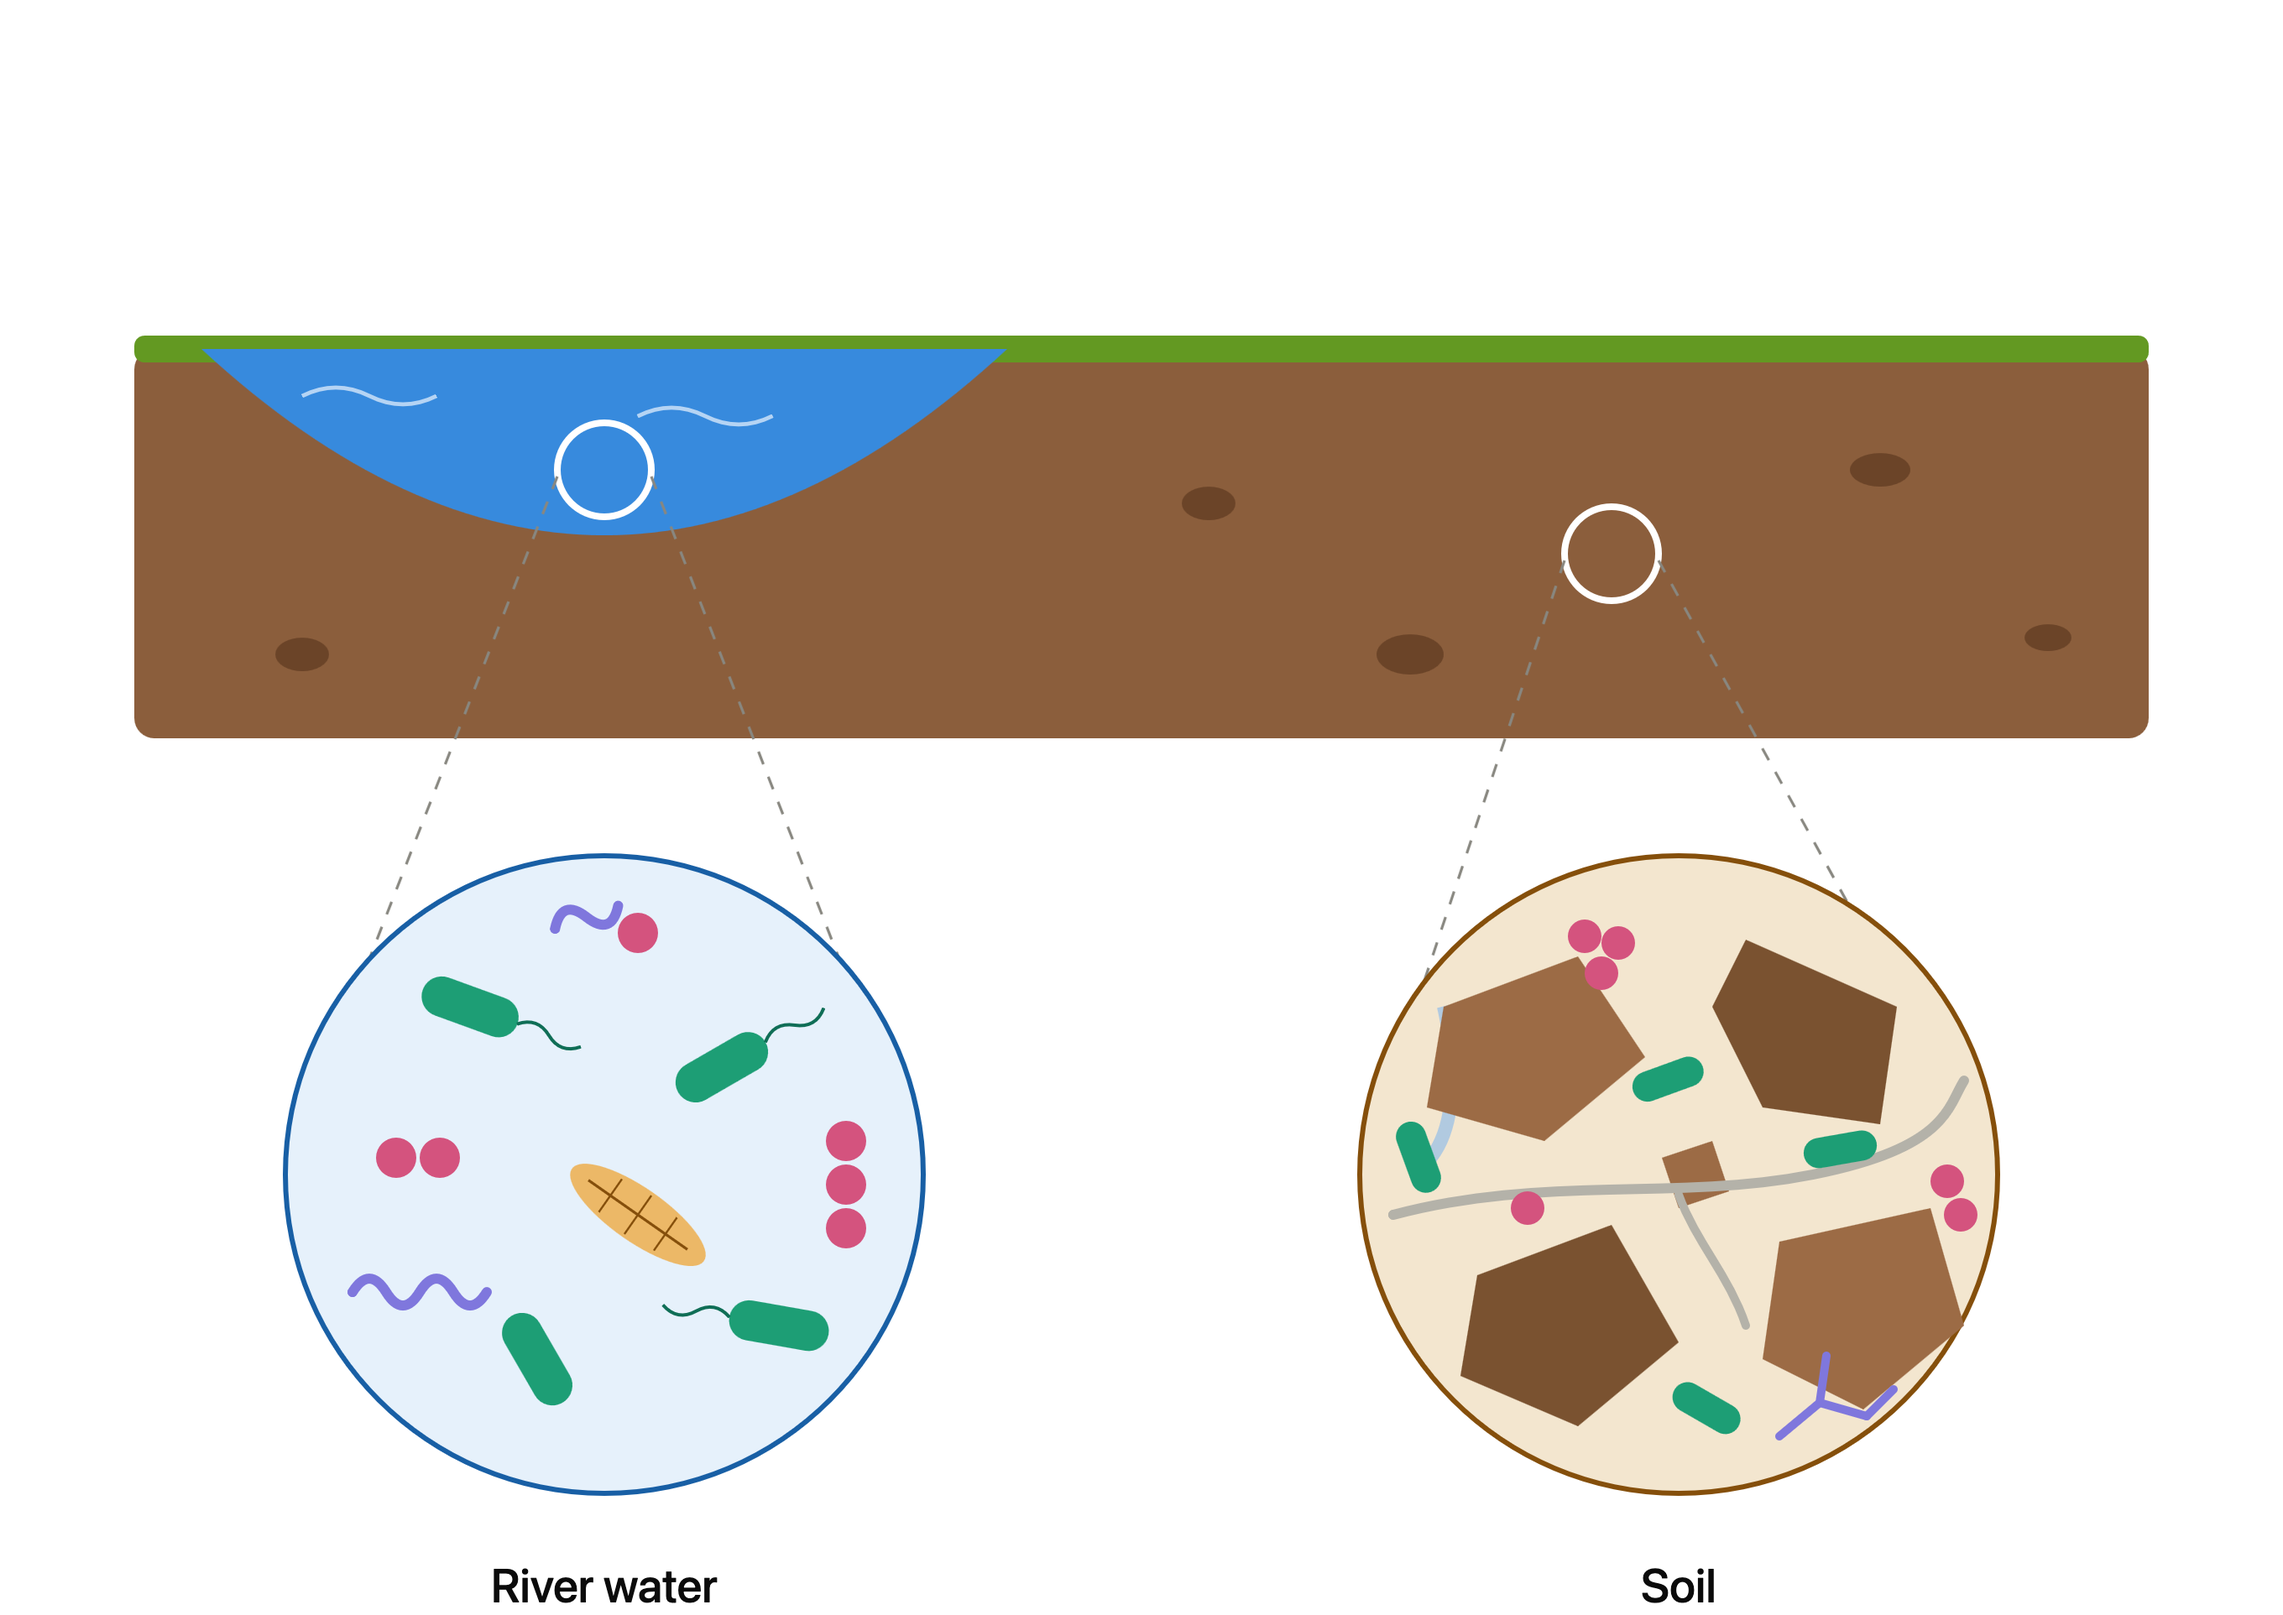
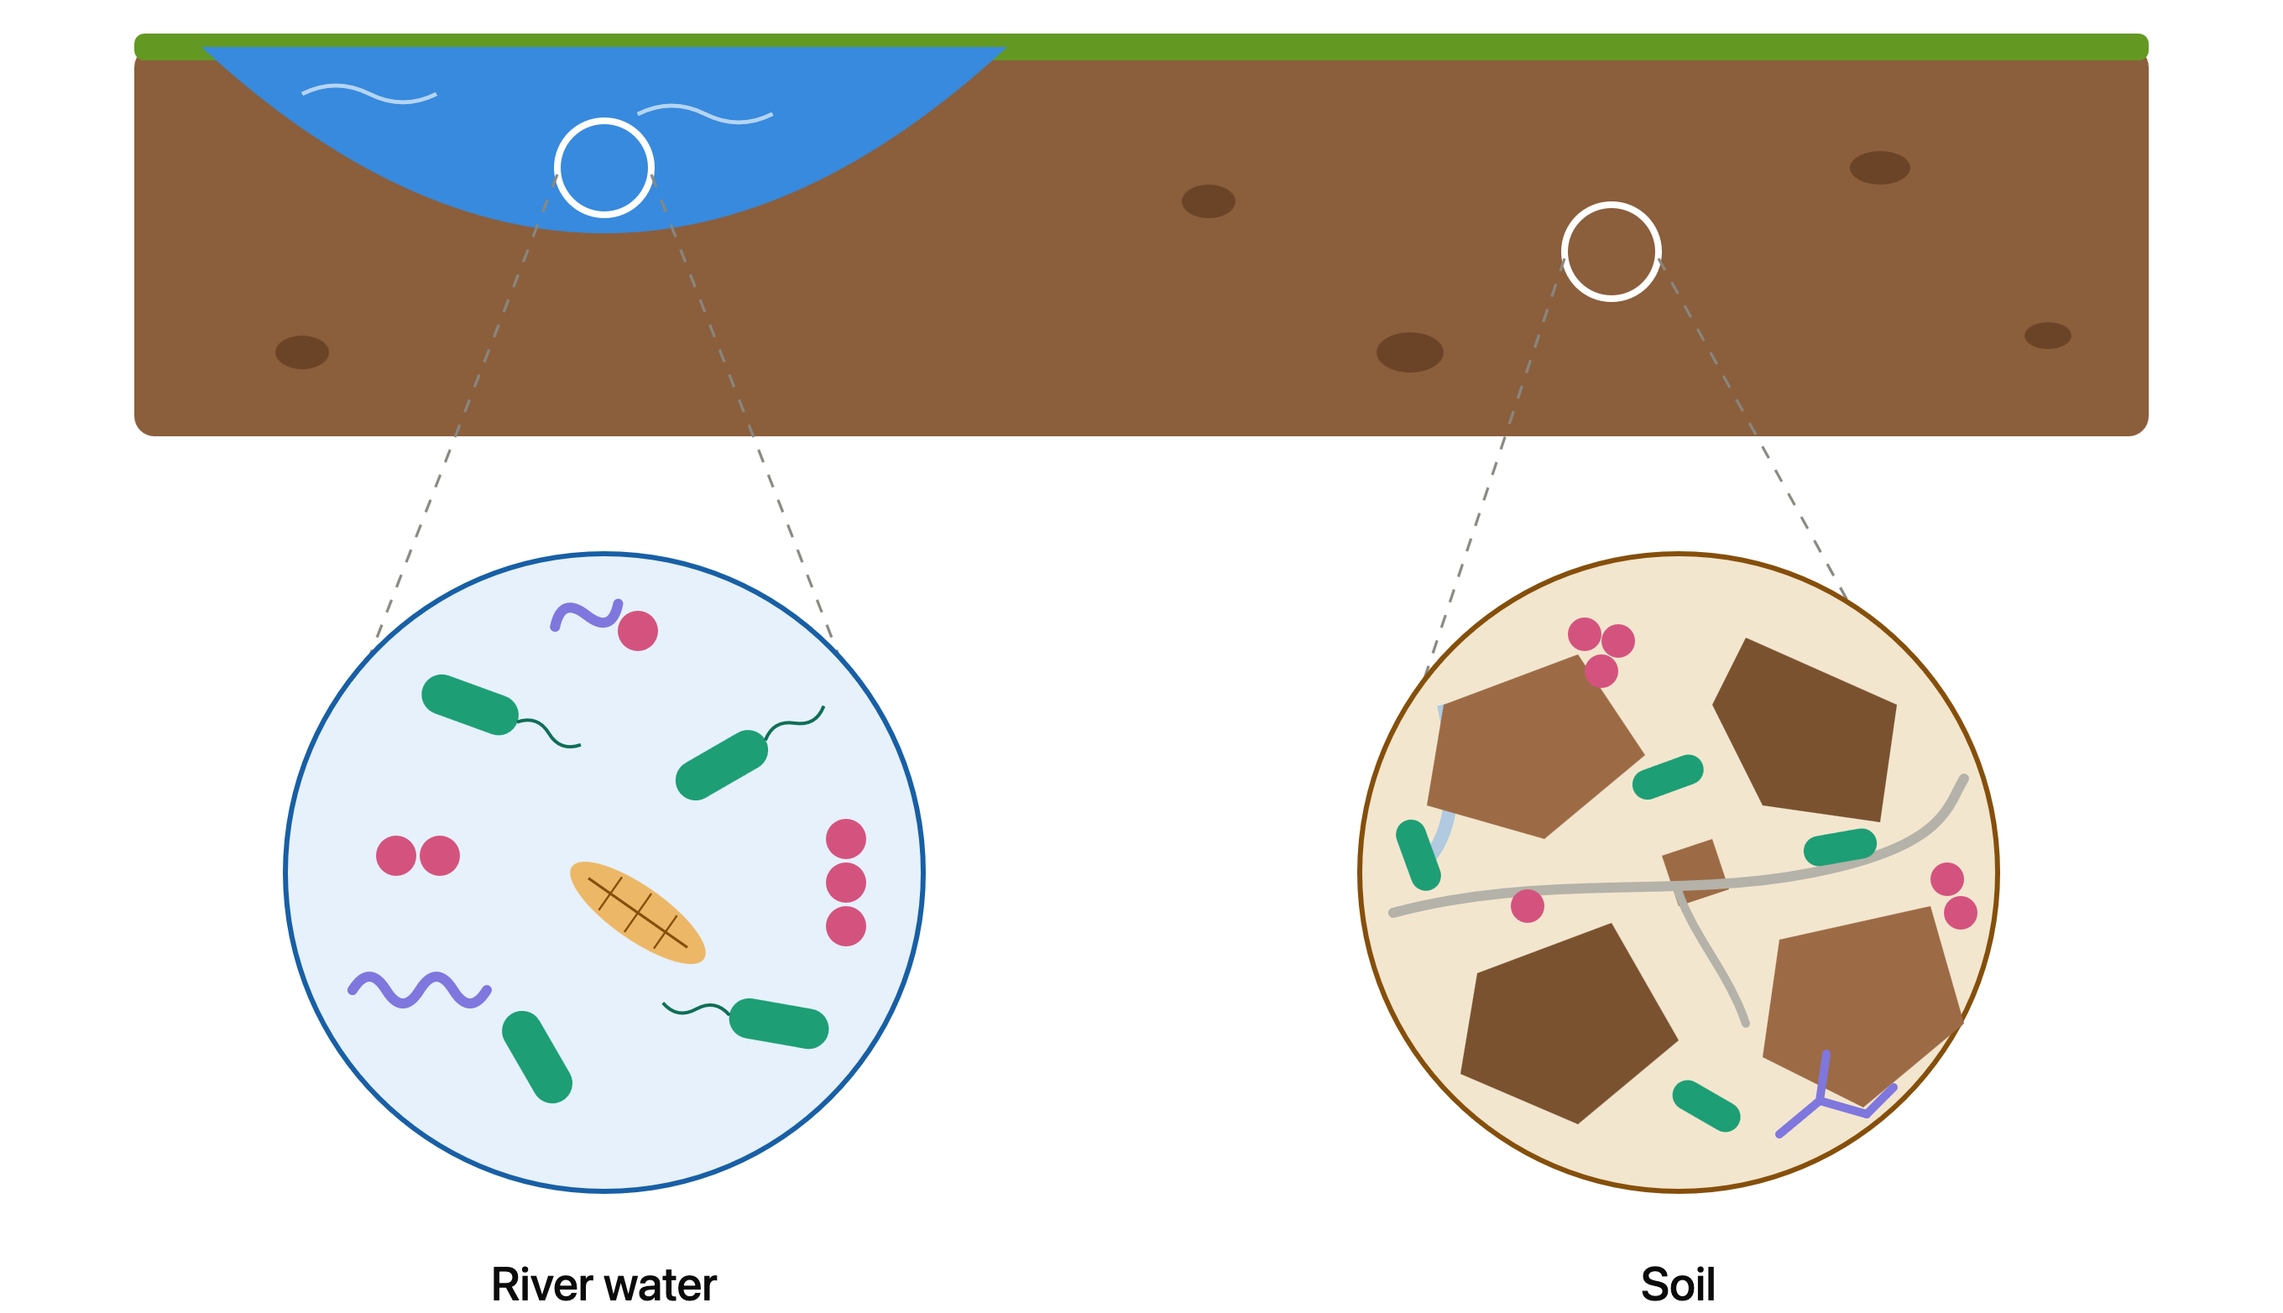
Updated docs

diff --git a/eco-flow-training/docs/nfcore_ampliseq.md b/eco-flow-training/docs/nfcore_ampliseq.md
@@ -56,13 +56,13 @@ This is of course not a good experiment design, its purpose is to give the seque
 
 Before running the amplicon sequencing pipeline, it helps to understand what amplicon sequencing is. In short: amplicon sequencing is a targeted sequencing method that uses PCR to amplify specific genomic regions of interest (e.g., CO1, 16S/18S, ITS) instead of the entire genome.
 
-DNA extraction, target amplification, and target sequecing results in libraries of sequences stored in FASTQ format. Depending on the sequencing technology used, these can be single end (one FASTQ per sample) or paired end (two FASTQs per sample). We are going to explore and learn more about this format in the next section.
+It results in libraries of sequences called **reads**, stored in **FASTQ format**. Depending on the sequencing technology used, reads can be single-end (one FASTQ per sample) or paired-end (two FASTQs per sample). We are going to explore and learn more about this format in the next section.
 
 ---
 
 ## Step 1 — Inspect the raw data
 
-It's always worth looking at your data by eye before running anything. The reads live in the `ampliseq_data` folder.
+It's always worth looking at your data before running anything. The reads in FASTQ format live in the `ampliseq_data` folder.
 
 The FASTQ files are compressed with `gzip` (they end in `.gz`), so they aren't directly human-readable — plain `cat`/`head` would print gibberish (don't panic if you see `<��xT�r-�B7�...`, that's expected!). Instead, use **`zcat`** (from Part 1), which reads gzipped files.
 
@@ -169,7 +169,7 @@ The `sample` values are the raw SRR accessions, but they can be any other string
 
 ## Step 4 - Build the sample metadata
 
-The **sample metadata** is a CSV file that gives information about the samples for the downstream analysis (barplots, diversity indices, and differential abundance testing).  It has to follow the QIIME2 specifications. It's optional, but if it's not provided, the pipeline will skip the downstream analyses.
+The **sample metadata** is a CSV file that gives information about the samples for the downstream analysis (barplots, diversity indices, and differential abundance testing).  It must follow the QIIME2 specifications. It's optional, but if it's not provided, the pipeline will skip the downstream analyses.
 
 Create a file called `metadata.csv` in the `eco-flow-training` folder (e.g. with `nano metadata.csv`).
 
